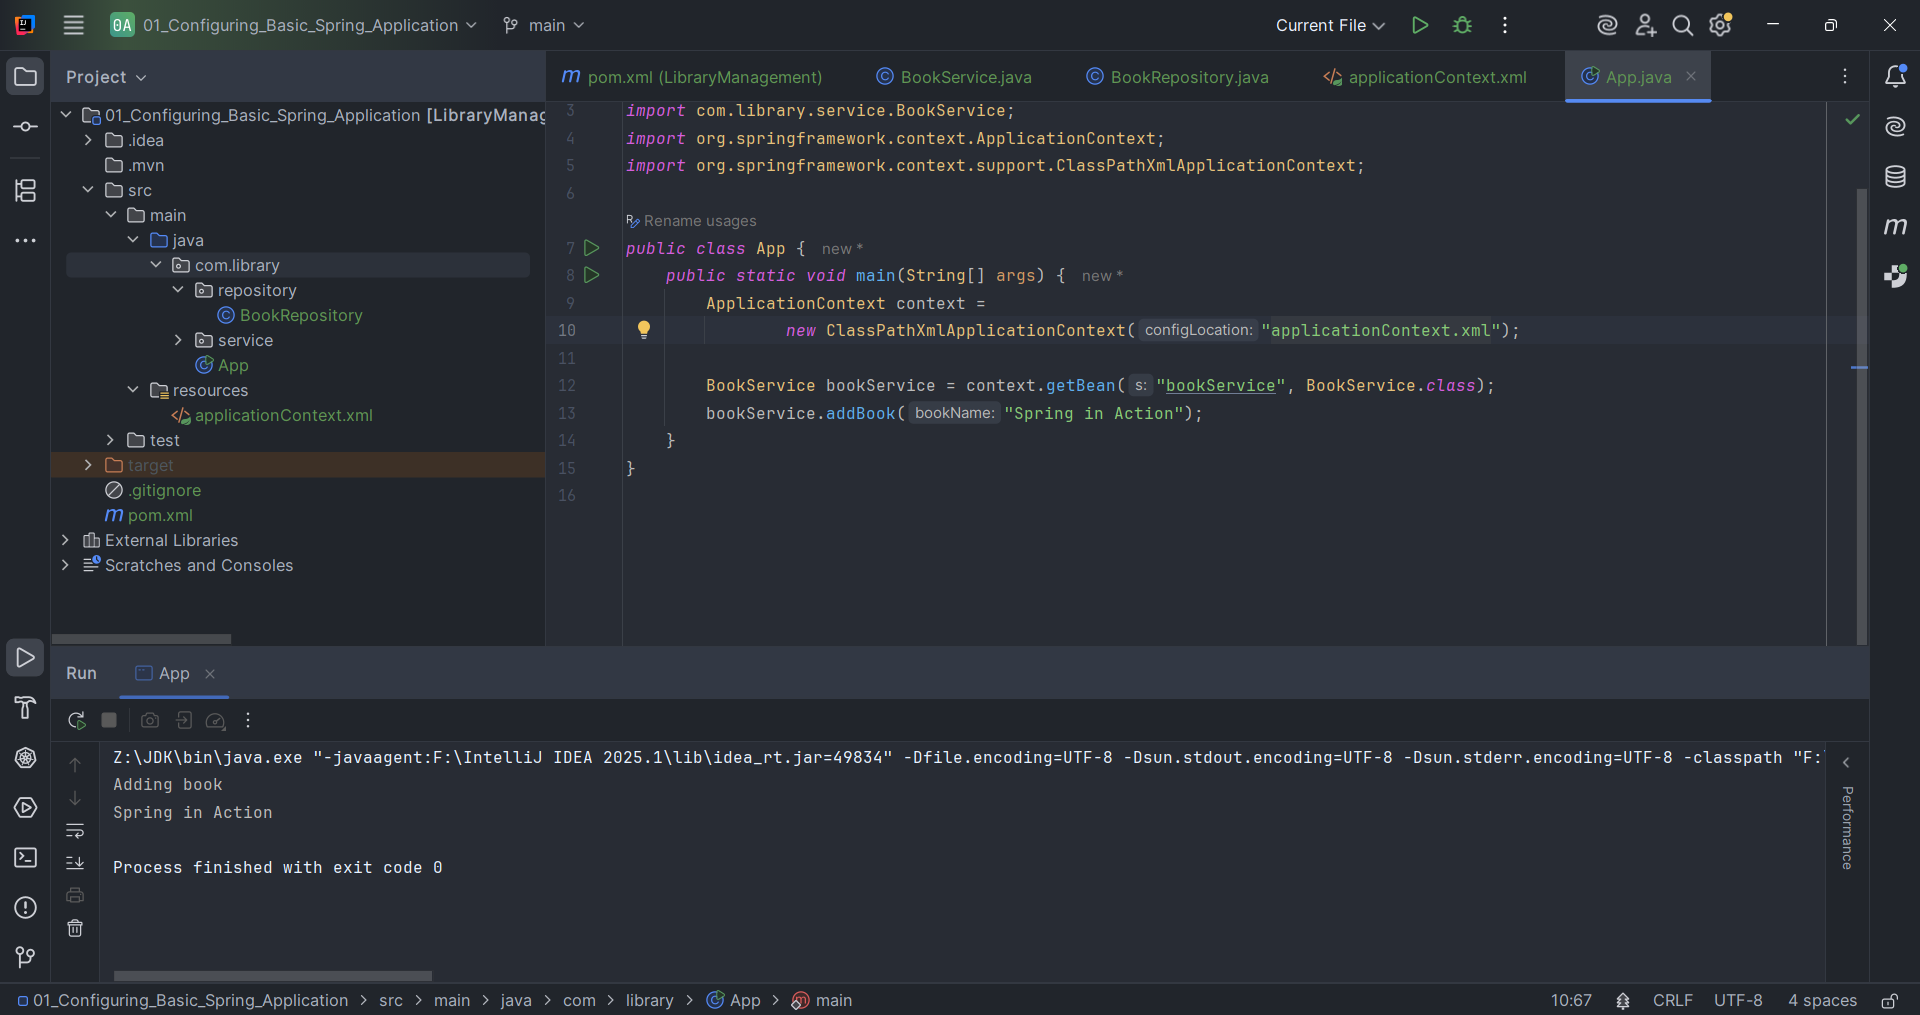
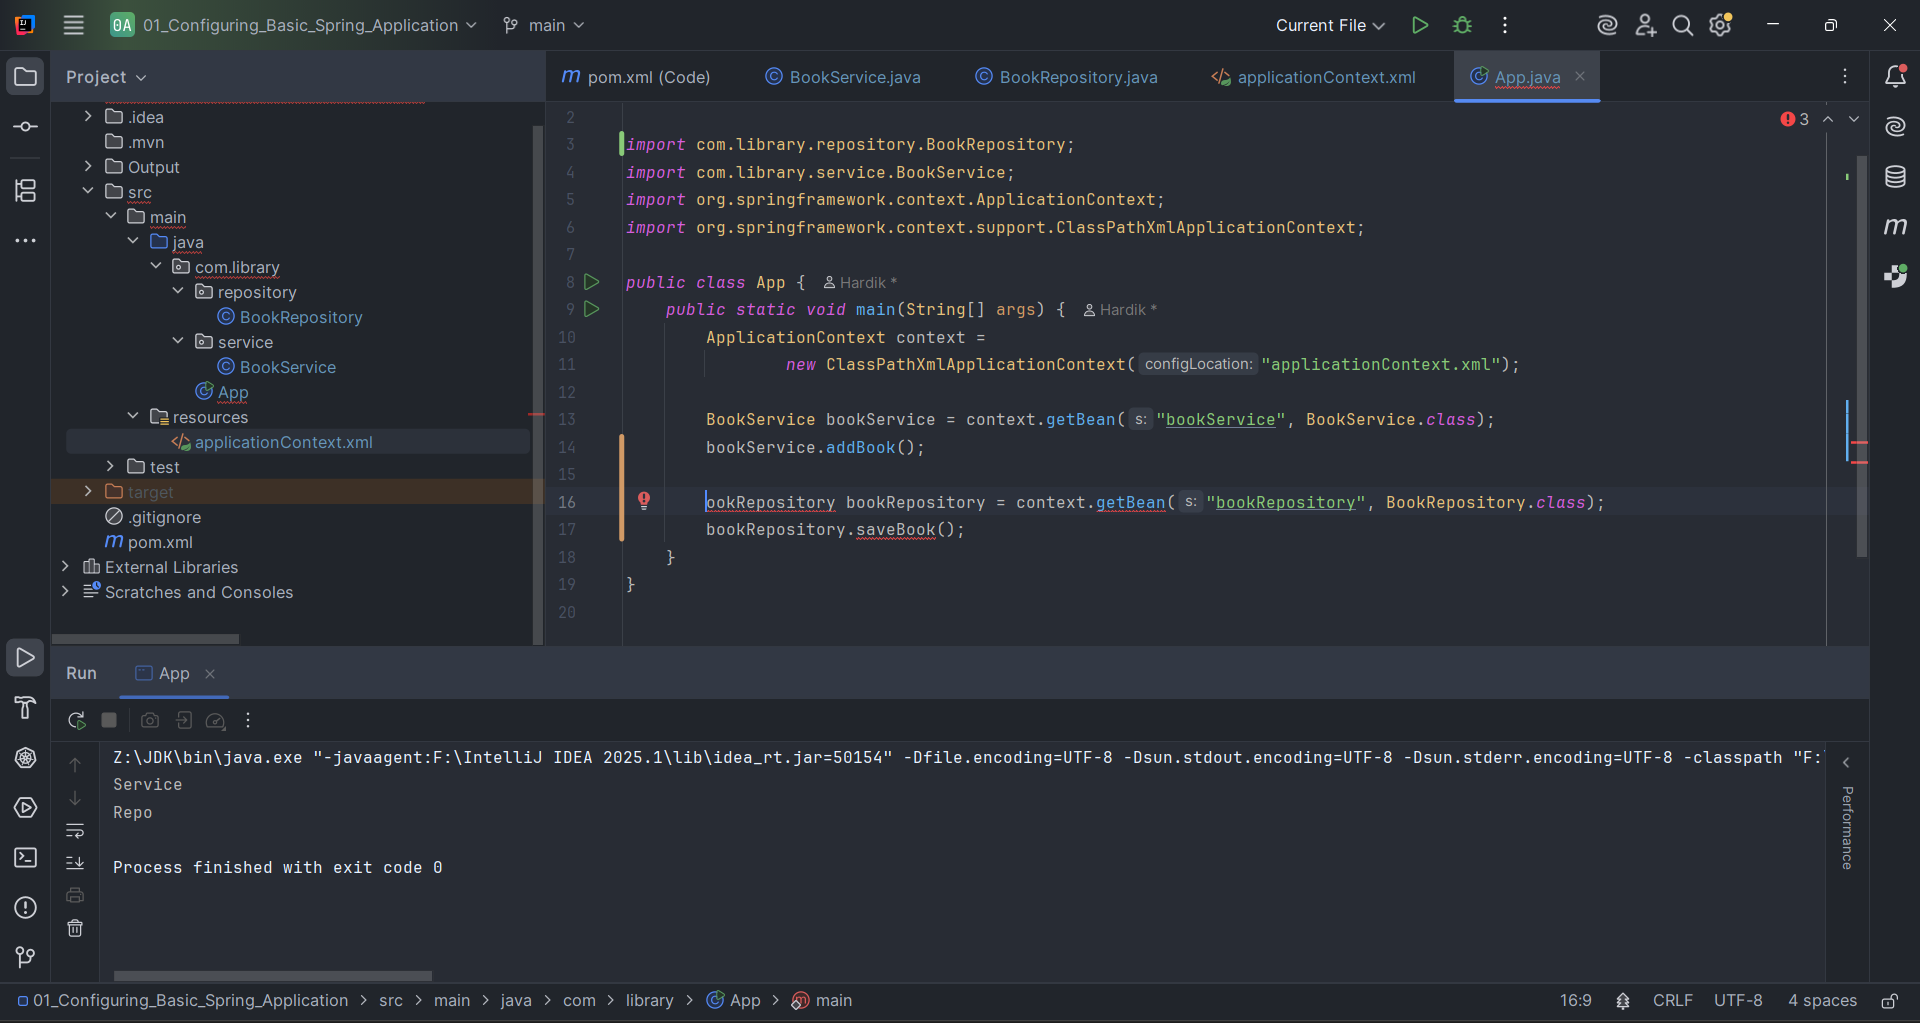
Implementing DI

diff --git a/Week3_Spring_Core_Maven/02_ Implementing_Dependency_Injection/Code/src/test/java/com/library/AppTest.java b/Week3_Spring_Core_Maven/02_ Implementing_Dependency_Injection/Code/src/test/java/com/library/AppTest.java
@@ -1,0 +1,38 @@
+package com.library;
+
+import junit.framework.Test;
+import junit.framework.TestCase;
+import junit.framework.TestSuite;
+
+/**
+ * Unit test for simple App.
+ */
+public class AppTest 
+    extends TestCase
+{
+    /**
+     * Create the test case
+     *
+     * @param testName name of the test case
+     */
+    public AppTest( String testName )
+    {
+        super( testName );
+    }
+
+    /**
+     * @return the suite of tests being tested
+     */
+    public static Test suite()
+    {
+        return new TestSuite( AppTest.class );
+    }
+
+    /**
+     * Rigourous Test :-)
+     */
+    public void testApp()
+    {
+        assertTrue( true );
+    }
+}

diff --git a/Week3_Spring_Core_Maven/02_ Implementing_Dependency_Injection/Code/src/main/java/com/library/App.java b/Week3_Spring_Core_Maven/02_ Implementing_Dependency_Injection/Code/src/main/java/com/library/App.java
@@ -1,6 +1,5 @@
 package com.library;
 
-import com.library.repository.BookRepository;
 import com.library.service.BookService;
 import org.springframework.context.ApplicationContext;
 import org.springframework.context.support.ClassPathXmlApplicationContext;
@@ -11,9 +10,6 @@ public class App {
                 new ClassPathXmlApplicationContext("applicationContext.xml");
 
         BookService bookService = context.getBean("bookService", BookService.class);
-        bookService.addBook();
-
-        ookRepository bookRepository = context.getBean("bookRepository", BookRepository.class);
-        bookRepository.saveBook();
+        bookService.addBook("Spring in Action");
     }
 }

diff --git a/Week3_Spring_Core_Maven/01_Configuring_Basic_Spring_Application/src/main/java/com/library/service/BookService.java b/Week3_Spring_Core_Maven/01_Configuring_Basic_Spring_Application/src/main/java/com/library/service/BookService.java
@@ -1,16 +1,7 @@
 package com.library.service;
 
-import com.library.repository.BookRepository;
-
 public class BookService {
-    private BookRepository bookRepository;
-
-    public void setBookRepository(BookRepository bookRepository) {
-        this.bookRepository = bookRepository;
-    }
-
-    public void addBook(String bookName) {
-        System.out.println("Adding book");
-        bookRepository.saveBook(bookName);
+    public void addBook() {
+        System.out.println("Service");
     }
 }

diff --git a/Week3_Spring_Core_Maven/02_ Implementing_Dependency_Injection/Code/src/main/java/com/library/service/BookService.java b/Week3_Spring_Core_Maven/02_ Implementing_Dependency_Injection/Code/src/main/java/com/library/service/BookService.java
@@ -1,0 +1,16 @@
+package com.library.service;
+
+import com.library.repository.BookRepository;
+
+public class BookService {
+    private BookRepository bookRepository;
+
+    public void setBookRepository(BookRepository bookRepository) {
+        this.bookRepository = bookRepository;
+    }
+
+    public void addBook(String bookName) {
+        System.out.println("Adding book");
+        bookRepository.saveBook(bookName);
+    }
+}

diff --git a/Week3_Spring_Core_Maven/01_Configuring_Basic_Spring_Application/src/main/java/com/library/repository/BookRepository.java b/Week3_Spring_Core_Maven/01_Configuring_Basic_Spring_Application/src/main/java/com/library/repository/BookRepository.java
@@ -1,7 +1,7 @@
 package com.library.repository;
 
 public class BookRepository {
-    public void saveBook(String bookName) {
-        System.out.println(bookName);
+    public void saveBook() {
+        System.out.println("Repo");
     }
 }

diff --git a/Week3_Spring_Core_Maven/02_ Implementing_Dependency_Injection/Code/src/main/java/com/library/repository/BookRepository.java b/Week3_Spring_Core_Maven/02_ Implementing_Dependency_Injection/Code/src/main/java/com/library/repository/BookRepository.java
@@ -1,0 +1,7 @@
+package com.library.repository;
+
+public class BookRepository {
+    public void saveBook(String bookName) {
+        System.out.println(bookName);
+    }
+}
